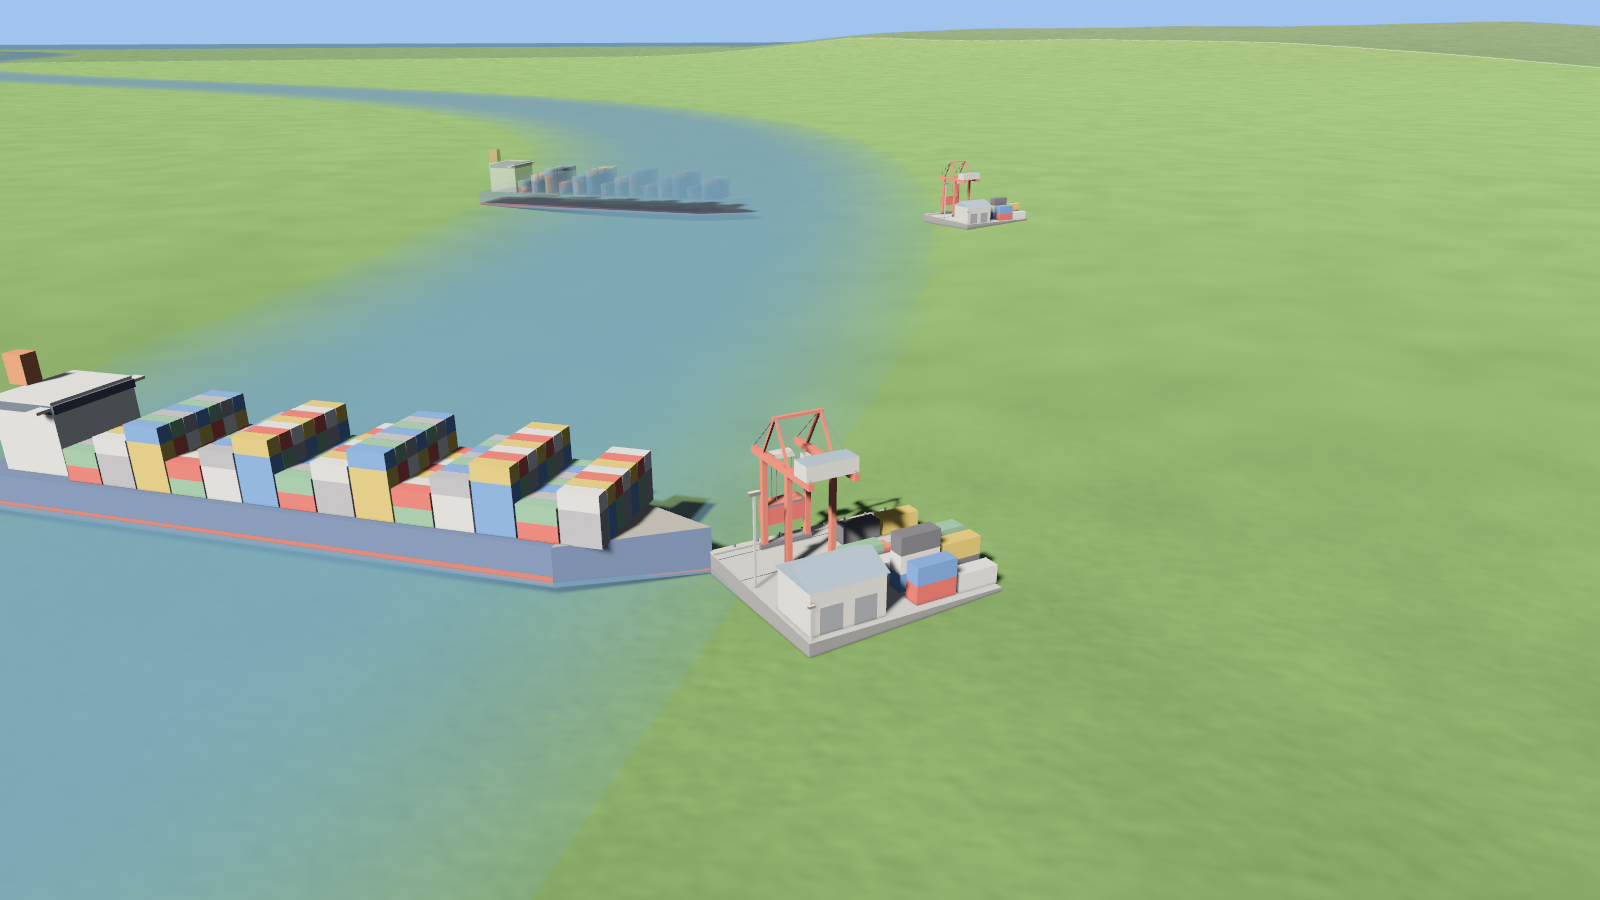
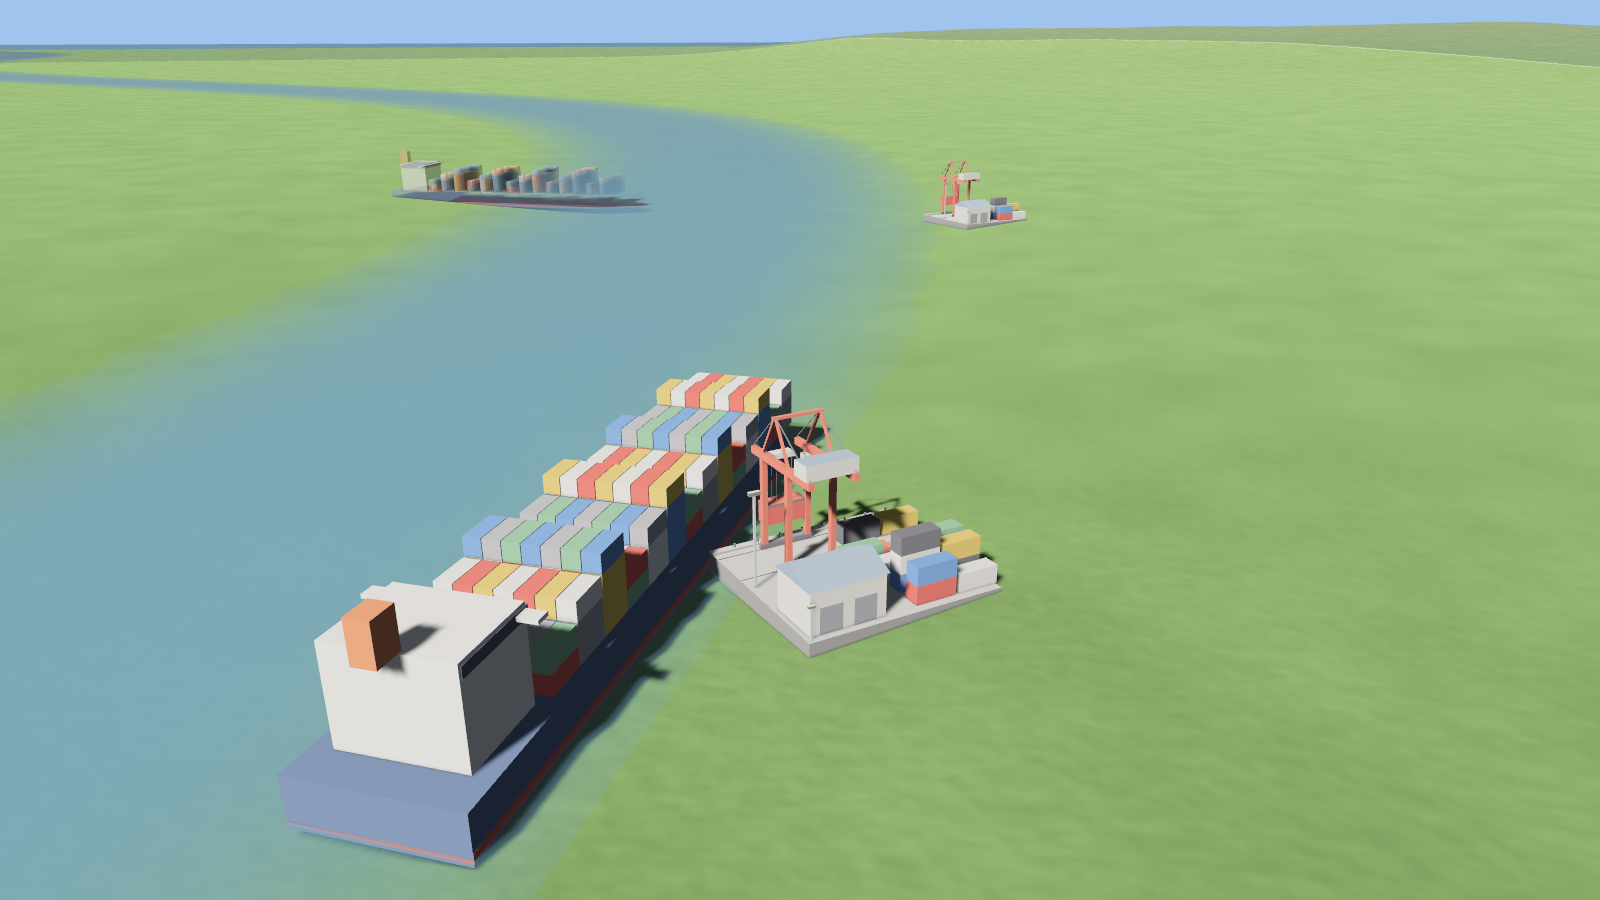
T-218: the cargo ship berths alongside and fits the water — berth_fit (measured once per port): the bank is the first wet point along the ship's water direction, the water runs square to the mean way from there to the wet points of a 16 m ring, the hull lies alongside the bank (on a bend the nearest

Changed region(s): [[0.0, 0.3733, 0.5312, 0.9644], [0.25, 0.1556, 0.4688, 0.2489]]

diff --git a/crates/cp_render/src/cargo_render.rs b/crates/cp_render/src/cargo_render.rs
@@ -2,9 +2,10 @@
 //! freight locomotive and flat wagons with containers or tanks, one entity per car, placed every
 //! frame along its leg between two ticks (`TickFraction`) like the intercity train; the cars
 //! together are as long as the `cargo_train` vehicle. A cargo ship (`SimView::ships`) is a hull
-//! with stacked containers and a bridge at the stern, its bow towards the berth, drawn between
-//! its pose now and a tick later on the water off the port (held where the water along its line
-//! ends); it fades in as it sails in and out as it sails away (render time only).
+//! with stacked containers and a bridge at the stern; it berths alongside the bank, along the
+//! water at the port, scaled down to fit narrow water (`berth_fit`), and under sail follows the
+//! sim's line between its pose now and a tick later (held on the water), turning to its way; it
+//! fades in as it sails in and out as it sails away (render time only).
 
 use bevy::prelude::*;
 use cp_sim::SimView;
@@ -26,7 +27,8 @@ const GAP: f32 = 0.8;
 const HALF_W: f32 = 1.5;
 /// The track surface is this much above the polyline.
 const RAIL_LIFT: f32 = 0.6;
-/// The ship stands this far off the port's centre (half a 4x4 lot and some water), metres.
+/// Without a map the ship lies this far off the port's centre (half a 4x4 lot and some
+/// water), metres.
 const BERTH_OFF: f32 = 20.0;
 /// Fraction of the sail in and out over which the ship fades.
 const FADE: f32 = 0.3;
@@ -331,29 +333,104 @@ pub fn ship_alpha(phase: cp_transit::ShipPhase, t: f32) -> f32 {
     }
 }
 
-/// The water surface under a ship at `c`; where the sail line has left the water (a river
-/// bends), the surface off its berth, found along `dir`.
-fn water_level(tr: &cp_terrain::Terrain, c: Vec2, berth: Vec2, dir: Vec2) -> f32 {
+/// The water surface at `c`, or at `near` when `c` is dry, or the sea level.
+fn water_level(tr: &cp_terrain::Terrain, c: Vec2, near: Vec2) -> f32 {
     let surface = |p: Vec2| {
         let depth = tr.water_depth(p);
         (depth > 0.0).then(|| tr.height(p) + depth)
     };
     surface(c)
-        .or_else(|| (0..64).find_map(|i| surface(berth + dir * (4.0 * i as f32))))
+        .or_else(|| surface(near))
         .unwrap_or_else(|| tr.sea_level())
 }
 
-/// How far out from `berth` along `dir` the water goes on unbroken, metres (from the first wet
-/// point off the quay; at most a sail and a ship length).
-fn water_reach(tr: &cp_terrain::Terrain, berth: Vec2, dir: Vec2) -> f32 {
-    let step = 4.0;
-    let max = ((cp_transit::SAIL_M + 200.0) / step) as usize;
-    let wet = |i: usize| tr.is_water(berth + dir * (step * i as f32));
-    let Some(first) = (0..max).find(|&i| wet(i)) else {
-        return f32::MAX;
+/// Where and how big a port's ship lies at its berth: alongside the bank, along the water.
+#[derive(Clone, Copy, Debug, PartialEq)]
+pub struct Berth {
+    /// Centre of the hull.
+    pub centre: Vec2,
+    /// Unit vector along the water at the berth (the hull's length).
+    pub axis: Vec2,
+    /// Uniform scale of the ship mesh (`<= 1`): a smaller freighter on narrow water.
+    pub scale: f32,
+}
+
+/// Smallest scale a ship is drawn at.
+const MIN_SCALE: f32 = 0.2;
+/// Share of the width of the water a berthed ship may take.
+const BEAM_SHARE: f32 = 0.6;
+
+/// How far from `p` along `d` the water goes on unbroken, in `step` metre steps up to `max`.
+fn wet_run(wet: &impl Fn(Vec2) -> bool, p: Vec2, d: Vec2, step: f32, max: f32) -> f32 {
+    let n = (max / step) as usize;
+    (1..=n)
+        .take_while(|&i| wet(p + d * (step * i as f32)))
+        .count() as f32
+        * step
+}
+
+/// The berth of a ship `len` x `beam` at a port at `berth` whose water lies along `dir`: the
+/// bank is the first wet point along `dir`; the water runs square to the mean way from there to
+/// the wet points of a ring round it; the hull lies alongside the bank (a little off it on a
+/// bend), scaled down (uniformly) until it takes at most [`BEAM_SHARE`] of the width and fits
+/// the wet run along the water at both sides of the hull. `None` when there is no water within 120 m.
+pub fn berth_fit(
+    wet: impl Fn(Vec2) -> bool,
+    berth: Vec2,
+    dir: Vec2,
+    (len, beam): (f32, f32),
+) -> Option<Berth> {
+    let bank = (0..=60)
+        .map(|i| berth + dir * (2.0 * i as f32))
+        .find(|&p| wet(p))?;
+    // Out over the water, square to the bank: the mean way to the wet points of a ring round
+    // the bank; the water runs across that.
+    let ring = (0..48)
+        .map(|k| Vec2::from_angle(k as f32 / 48.0 * std::f32::consts::TAU))
+        .filter(|&d| wet(bank + d * 16.0))
+        .fold(Vec2::ZERO, |acc, d| acc + d);
+    let n = ring.try_normalize().unwrap_or(dir);
+    let axis = Vec2::new(n.y, -n.x);
+    let bank = (0..=60)
+        .map(|i| berth + n * (2.0 * i as f32))
+        .find(|&p| wet(p))
+        .unwrap_or(bank);
+    let width = wet_run(&wet, bank, n, 1.0, 400.0);
+    let widest = (BEAM_SHARE * width / beam).min(1.0);
+    // The scale that fits with the hull's near side `gap` metres off the bank: both sides and
+    // the middle of the hull stay on water along its whole length.
+    let fit = |gap: f32| {
+        let mut scale = widest;
+        for _ in 0..3 {
+            let centre = bank + n * (gap + beam * scale * 0.5);
+            let half = (-1..=1)
+                .map(|k| {
+                    let side = centre + n * (k as f32 * beam * scale * 0.5);
+                    wet_run(&wet, side, axis, 2.0, len).min(wet_run(&wet, side, -axis, 2.0, len))
+                })
+                .fold(f32::MAX, f32::min);
+            scale = scale.min((half - 2.0).max(0.0) * 2.0 / len);
+        }
+        scale.clamp(MIN_SCALE, 1.0)
     };
-    let last = (first..max).take_while(|&i| wet(i)).last().unwrap_or(first);
-    step * last as f32
+    // On a bend a straight hull fits better a little off the bank: the nearest standoff that
+    // gets within 10 % of the best.
+    let gaps = [2.0f32, 5.0, 9.0, 14.0, 20.0, 28.0, 38.0, 50.0];
+    let gaps: Vec<(f32, f32)> = gaps
+        .into_iter()
+        .filter(|&g| g < (width - beam * MIN_SCALE).max(2.0))
+        .map(|g| (g, fit(g)))
+        .collect();
+    let best = gaps.iter().map(|g| g.1).fold(MIN_SCALE, f32::max);
+    let (gap, scale) = gaps
+        .into_iter()
+        .find(|g| g.1 >= 0.9 * best)
+        .unwrap_or((2.0, MIN_SCALE));
+    Some(Berth {
+        centre: bank + n * (gap + beam * scale * 0.5),
+        axis,
+        scale,
+    })
 }
 
 #[derive(Component)]
@@ -368,6 +445,8 @@ struct CargoRender {
     trains: Vec<Vec<Entity>>,
     /// The ships shown, in `SimView::ships` order, each with its own material (it fades).
     ships: Vec<(Entity, Handle<VertexColorMaterial>)>,
+    /// The berth of each port's ship, measured once.
+    berths: std::collections::BTreeMap<cp_building::BuildingId, Option<Berth>>,
     /// The train length the car meshes were made for, and the ship size.
     length: f32,
     ship_size: (f32, f32),
@@ -494,17 +573,48 @@ fn sync_cargo(
         let p = ship.pos().lerp(ship.next_pos(), frac);
         let t = ship.t + (ship.next_t - ship.t) * frac;
         let alpha = ship_alpha(ship.phase, t);
-        // Bow towards the berth, standing off it by half a lot and half the ship, and never
-        // further out than the water reaches along its line (a river bends away).
-        let out = (p - ship.berth).length() + BERTH_OFF + size.0 * 0.5;
-        let reach = terrain.map_or(f32::MAX, |tr| water_reach(tr, ship.berth, ship.dir));
-        let c = ship.berth + ship.dir * out.min(reach - size.0 * 0.5).max(BERTH_OFF + size.0 * 0.5);
-        let water = terrain.map_or(0.0, |tr| water_level(tr, c, ship.berth, ship.dir));
-        let rot = Quat::from_rotation_arc(
-            Vec3::Z,
-            Vec3::new(-ship.dir.x, 0.0, -ship.dir.y).normalize_or(Vec3::Z),
-        );
-        let tf = Transform::from_translation(Vec3::new(c.x, water, c.y)).with_rotation(rot);
+        // Alongside the bank at the berth, scaled to the water; under sail it keeps that
+        // offset from the sim's line (held where that leaves the water) and turns to its way.
+        let fit = *st.berths.entry(ship.port).or_insert_with(|| {
+            terrain.and_then(|tr| berth_fit(|q| tr.is_water(q), ship.berth, ship.dir, size))
+        });
+        let berth = fit.unwrap_or(Berth {
+            centre: ship.berth + ship.dir * (BERTH_OFF + size.1 * 0.5),
+            axis: Vec2::new(-ship.dir.y, ship.dir.x),
+            scale: 1.0,
+        });
+        let mut c = berth.centre + (p - ship.berth);
+        if let Some(tr) = terrain
+            && !tr.is_water(c)
+        {
+            let from = c;
+            c = (1..=16)
+                .map(|k| from.lerp(berth.centre, k as f32 / 16.0))
+                .find(|&q| tr.is_water(q))
+                .unwrap_or(berth.centre);
+        }
+        let water = terrain.map_or(0.0, |tr| water_level(tr, c, berth.centre));
+        let moving = ship.next_pos() - ship.pos();
+        // Docked the bow points along the axis (its sign fixed); under sail it turns from its
+        // way towards the axis as it nears the berth.
+        let axis = if berth.axis.x + berth.axis.y * 1e-3 >= 0.0 {
+            berth.axis
+        } else {
+            -berth.axis
+        };
+        let to3 = |v: Vec2| Vec3::new(v.x, 0.0, v.y);
+        let docked = Quat::from_rotation_arc(Vec3::Z, to3(axis));
+        let rot = if moving.length_squared() > 1e-6 && ship.phase != cp_transit::ShipPhase::Docked {
+            let way = Quat::from_rotation_arc(Vec3::Z, to3(moving.normalize()));
+            let near =
+                (1.0 - c.distance(berth.centre) / (size.0 * berth.scale * 1.5)).clamp(0.0, 1.0);
+            way.slerp(docked, near)
+        } else {
+            docked
+        };
+        let tf = Transform::from_translation(Vec3::new(c.x, water, c.y))
+            .with_rotation(rot)
+            .with_scale(Vec3::splat(berth.scale));
         let visible = if alpha > 0.01 {
             Visibility::Inherited
         } else {
@@ -646,5 +756,43 @@ mod tests {
         assert_eq!(ship_alpha(Leaving, 0.5), 1.0);
         assert_eq!(ship_alpha(Leaving, 1.0), 0.0);
         assert!(ship_alpha(Arriving, 0.15) > 0.0 && ship_alpha(Arriving, 0.15) < 1.0);
+    }
+
+    /// T-218: a ship berths alongside the bank, along the water, and is scaled down until its
+    /// hull (corners and middle) stays on the water: full size on a wide river, a small
+    /// freighter on a narrow one or in a short basin.
+    #[test]
+    fn a_berthed_ship_lies_alongside_and_fits_the_water() {
+        let (len, beam) = DEFAULT_SHIP;
+        // A port at the origin, the bank 20 m south (-y), the river running along x.
+        let river =
+            |w: f32, l: f32| move |p: Vec2| p.y <= -20.0 && p.y >= -20.0 - w && p.x.abs() <= l;
+        let hull_on_water = |b: &Berth, wet: &dyn Fn(Vec2) -> bool| {
+            let n = Vec2::new(-b.axis.y, b.axis.x);
+            [-1.0f32, 0.0, 1.0].iter().all(|&a| {
+                [-1.0f32, 0.0, 1.0].iter().all(|&c| {
+                    wet(b.centre
+                        + b.axis * (a * len * b.scale * 0.5 * 0.98)
+                        + n * (c * beam * b.scale * 0.5 * 0.98))
+                })
+            })
+        };
+        for (w, l, full) in [
+            (200.0, 2000.0, true),
+            (24.0, 2000.0, false),
+            (200.0, 40.0, false),
+        ] {
+            let wet = river(w, l);
+            let b = berth_fit(wet, Vec2::ZERO, Vec2::new(0.0, -1.0), (len, beam)).expect("water");
+            assert!(b.axis.x.abs() > 0.99, "{w} {l}: alongside the bank, {b:?}");
+            assert!(b.scale <= 1.0 && b.scale >= MIN_SCALE);
+            assert_eq!(b.scale == 1.0, full, "{w} {l}: {b:?}");
+            assert!(hull_on_water(&b, &wet), "{w} {l}: {b:?}");
+            assert!(
+                b.centre.y < -20.0 && b.centre.y > -20.0 - w,
+                "{w} {l}: {b:?}"
+            );
+        }
+        assert!(berth_fit(|_| false, Vec2::ZERO, Vec2::X, (len, beam)).is_none());
     }
 }
